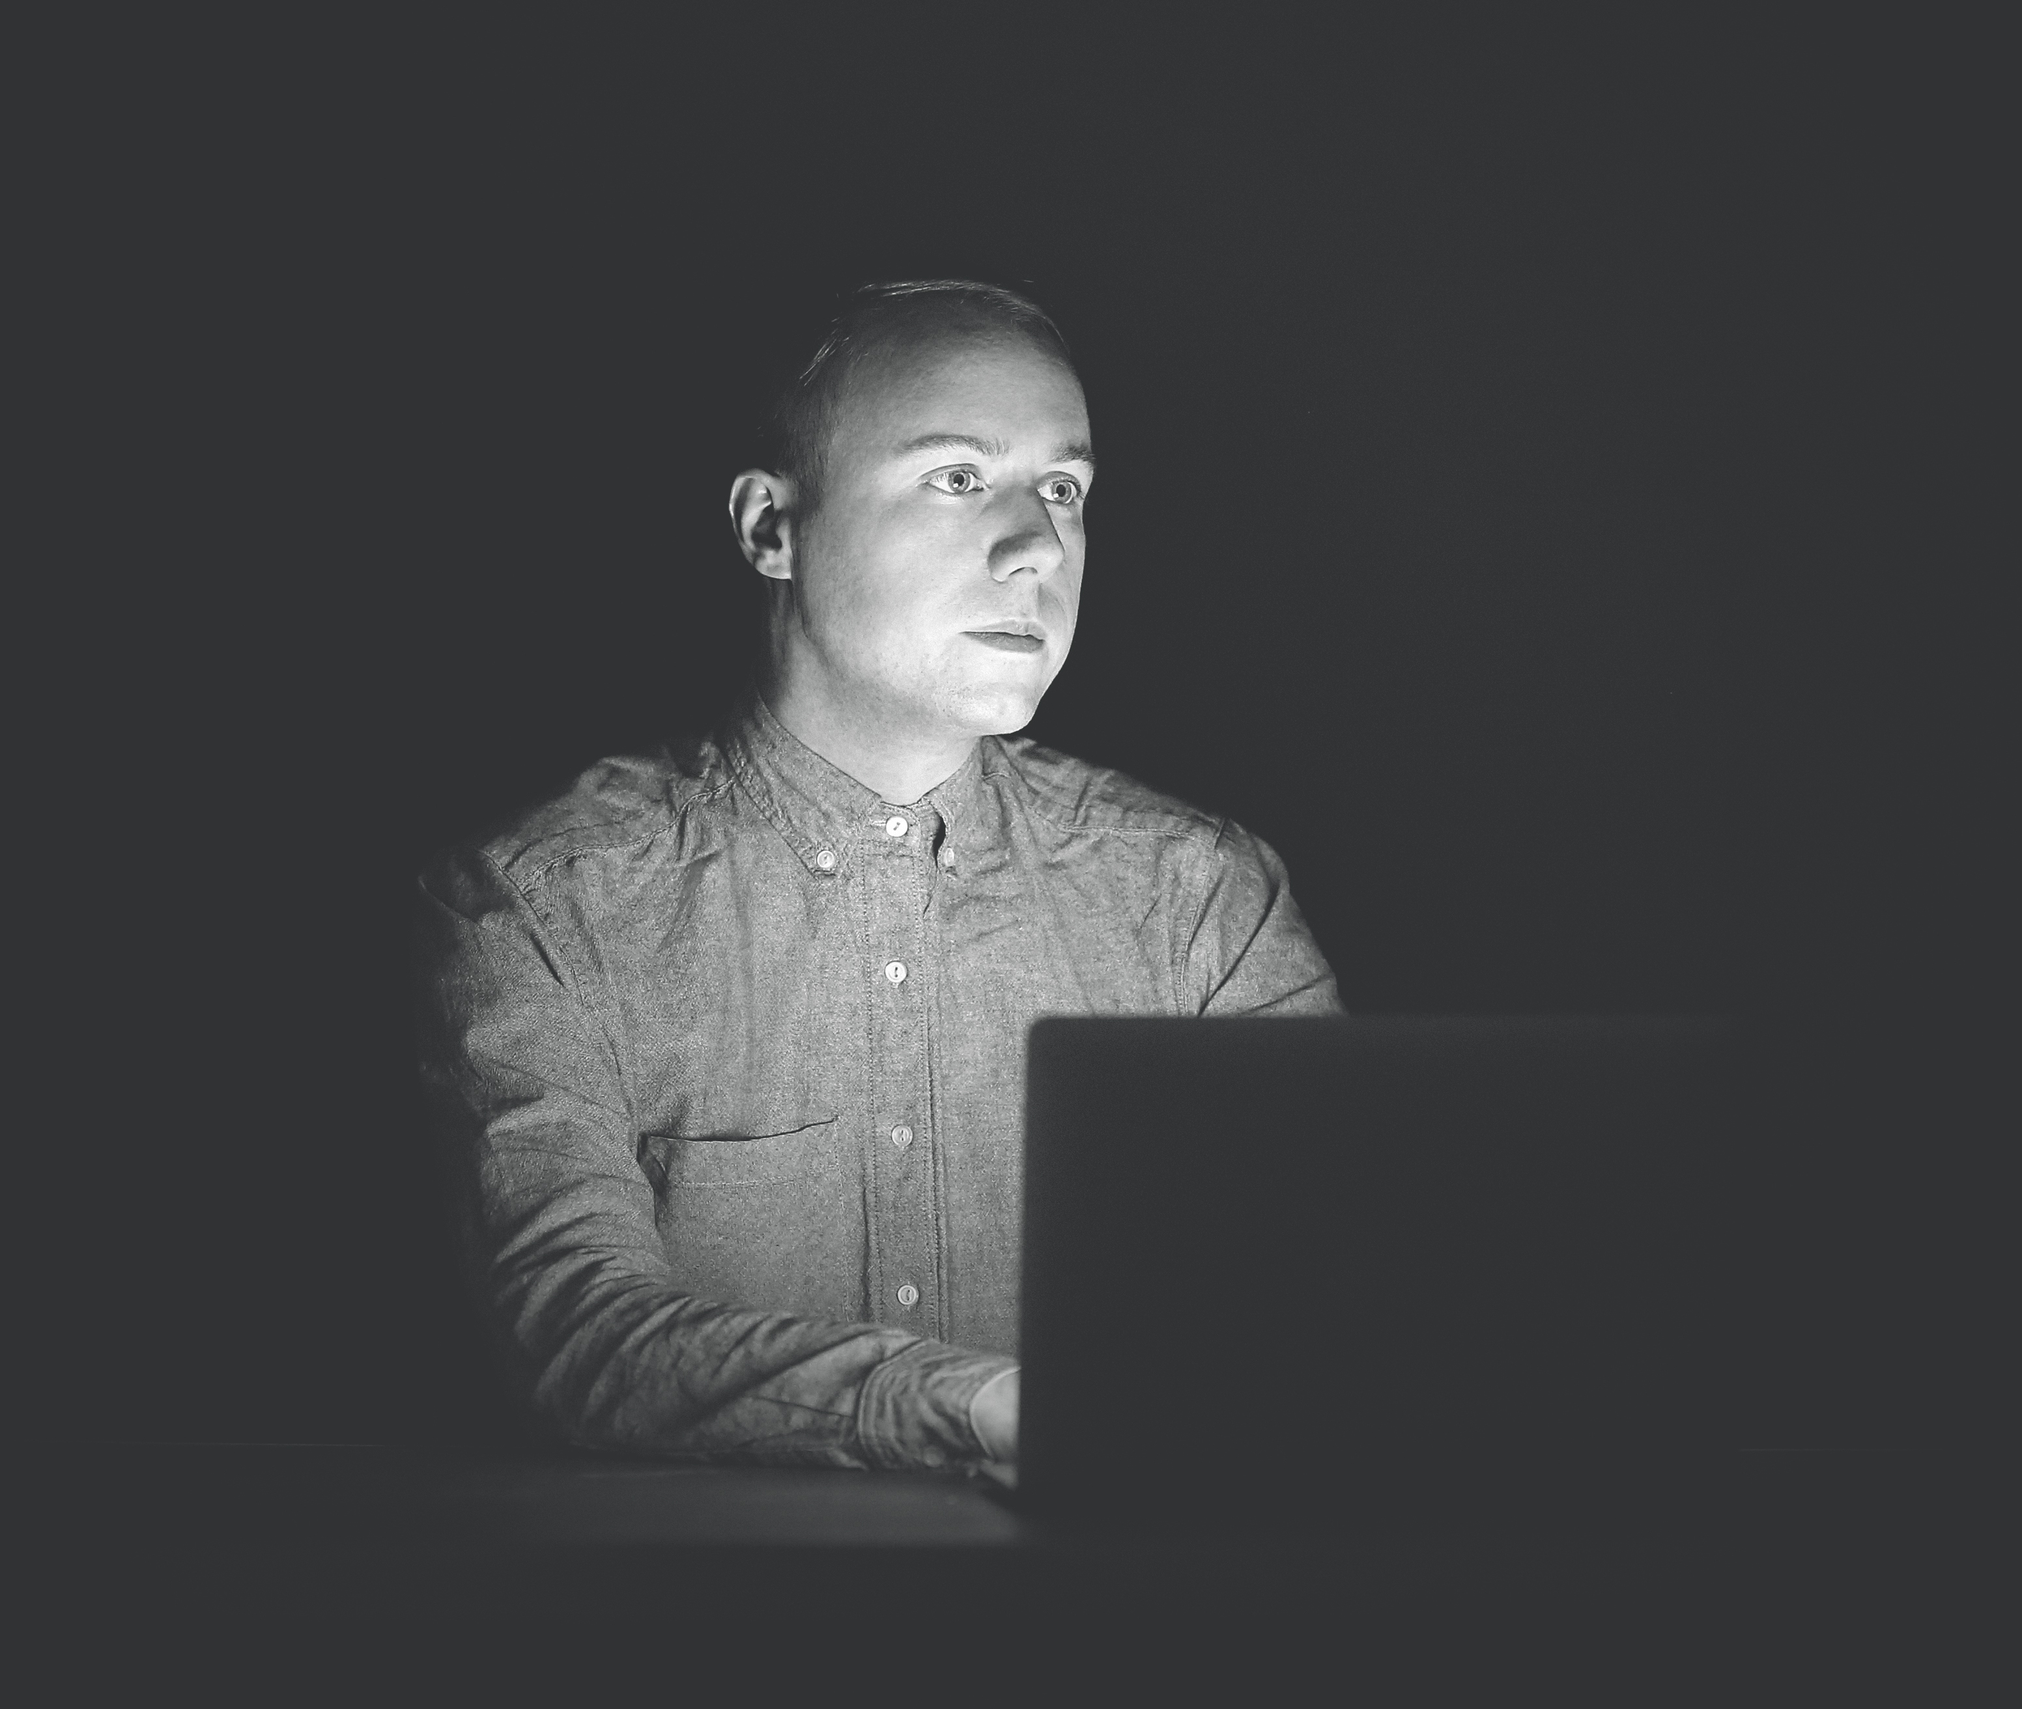
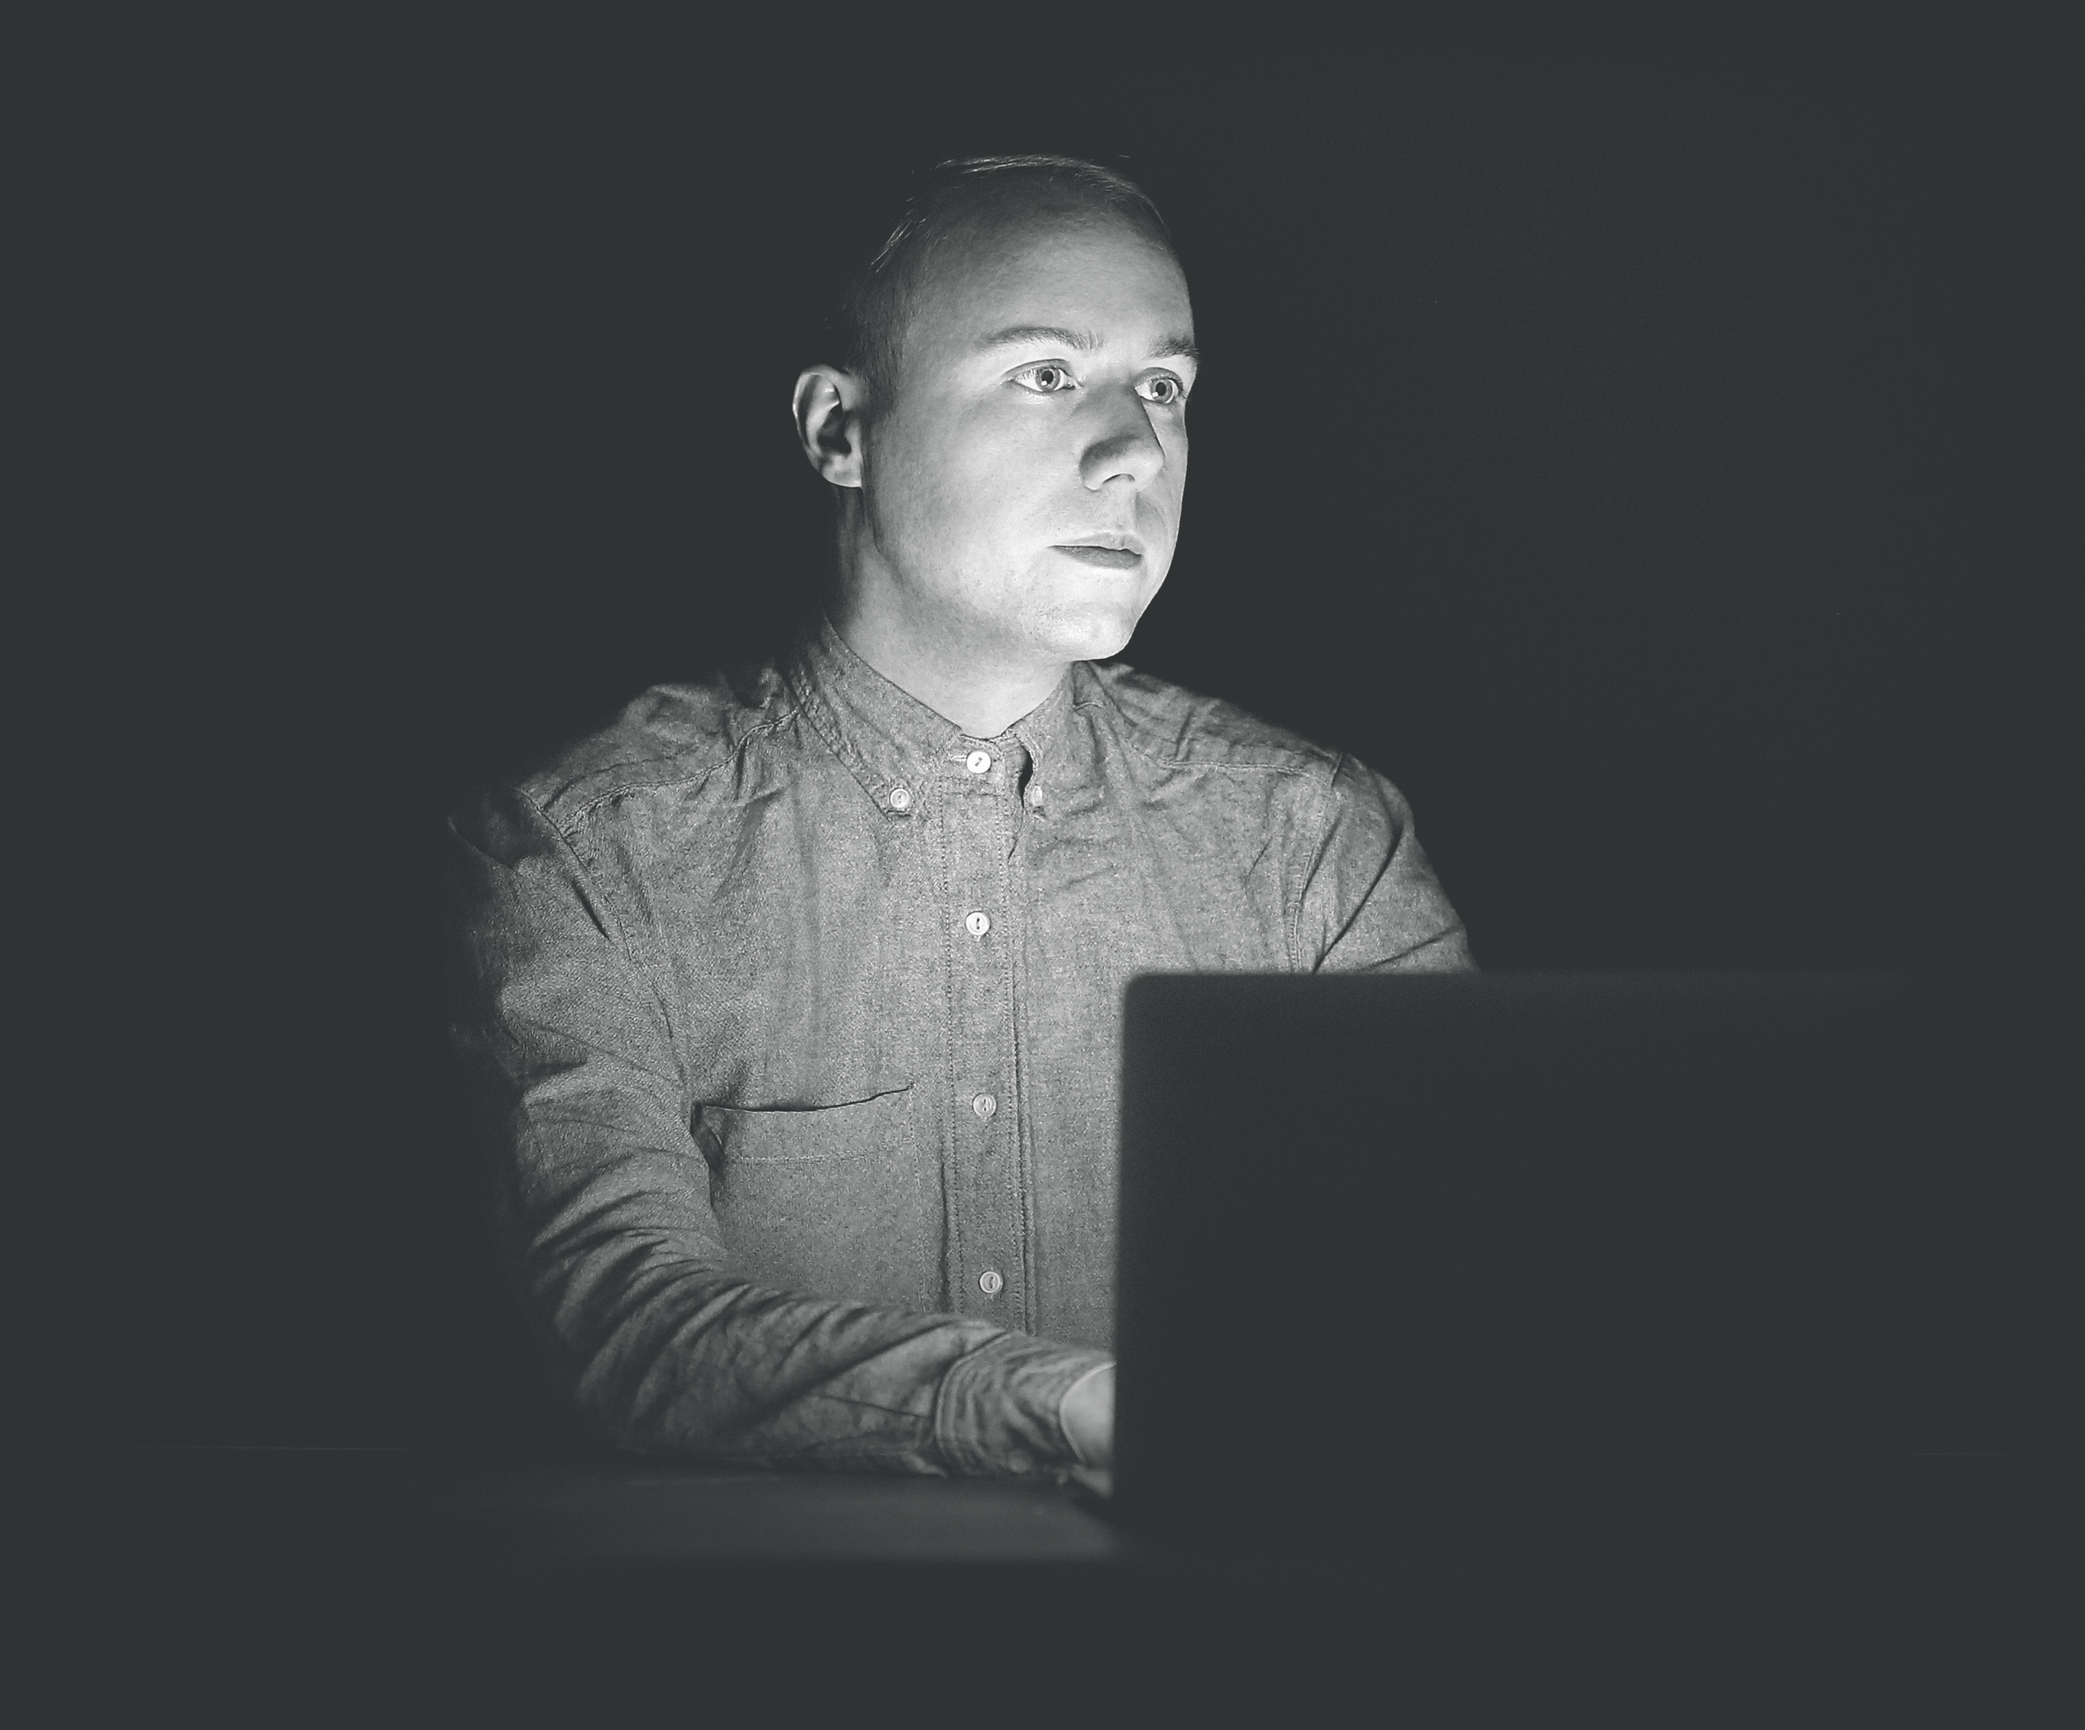
Tweak responsive behaviour

Changed region(s): [[0.2188, 0.0937, 0.7188, 0.9059]]

diff --git a/src/pages/index/index.css b/src/pages/index/index.css
@@ -18,16 +18,21 @@ body {
 }
 
 .hero {
+    display: flex;
+    flex-direction: column;
+    align-items: center;
+    margin-top: 4base;
+
     @mixin tablet {
-        display: flex;
-        align-items: center;
+        margin-top: 15base;
+        flex-direction: row;
+        align-items: flex-start;
     }
 }
 
-.hero__image,
-.hero__text {
+.hero__image {
     @mixin tablet {
-        width: 50%;
+        width: 60%;
     }
 }
 
@@ -36,9 +41,12 @@ body {
     flex-direction: column;
     align-items: center;
     text-align: center;
+    max-width: 100base;
 
     @mixin tablet {
         align-items: flex-start;
         text-align: left;
+        margin-top: 10base;
+        width: 40%;
     }
 }

diff --git a/src/helpers/srcSet.js b/src/helpers/srcSet.js
@@ -1,6 +1,6 @@
 const Handlebars = require("handlebars");
 
 module.exports = function(src) {
-    const image = require(`../assets/images/${src}?min=320,max=600`);
+    const image = require(`../assets/images/${src}?min=320,max=681`);
     return new Handlebars.SafeString(`src="${image}" srcset="${image.srcSet}"`);
 };
